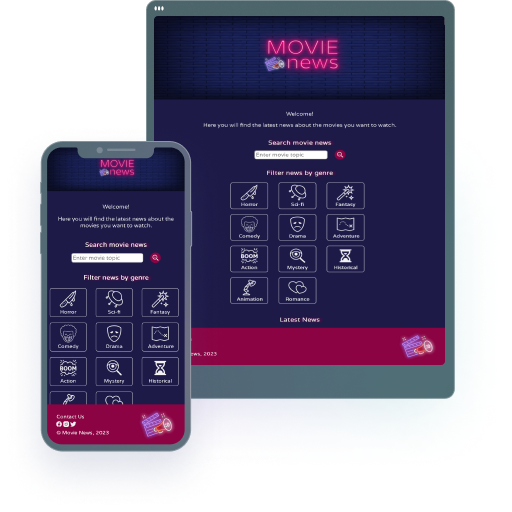
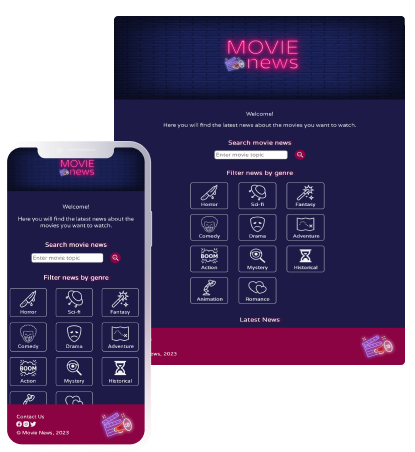
projects section img fixed and responsiveness

diff --git a/index.html b/index.html
@@ -85,7 +85,7 @@
     <div class="body-container">
 
         <!-- About me section -->
-        <div id="about" class="grid grid-cols-1 lg:grid-cols-2 gap-10 px-6 py-10 md:px-16 md:py-20 text-white">
+        <div id="about" class="grid grid-cols-1 lg:grid-cols-2 gap-10 px-6 py-10 md:pb-20 md:px-16 mb-10 text-white">
             <div class="w-full lg:order-2">
                 <h2 class="text-2xl sm:text-3xl md:text-4xl lg:text-4xl xl:text-5xl font-bold mb-4 md:mb-12">About Me
                 </h2>
@@ -122,8 +122,7 @@
                             <i class="fa fa-chevron-down"></i>
                         </div>
                         <div id="accordion-3" class="accordion-body hidden p-4 rounded-b">
-                            <p>Since then, I found a new passion: coding. I enjoy the challenge and transforming ideas
-                                into tangible digital creations.</p>
+                            <p>Since then, I found a new passion: coding. I enjoy the challenge and transforming ideas into user-friendly digital creations.</p>
                         </div>
                     </div>
                     <div class="accordion-item border-b border-white">
@@ -162,7 +161,7 @@
 
     </div>
 
-    <div id="experience" class="container mx-auto px-6 md:px-8">
+    <div id="experience" class="container mx-auto px-6 md:px-8 py-10 md:pb-20">
         <div class="grid lg:grid-cols-2 gap-12">
             <!-- Experience Section -->
             <div class="space-y-6">
@@ -268,6 +267,7 @@
                             <span class="tags">Communication</span>
                             <span class="tags">Problem Solving</span>
                             <span class="tags">Adaptability</span>
+                            <span class="tags">Collaboration</span>
                         </div>
                     </div>
                     <div class="mt-8 flex space-x-4">
@@ -286,19 +286,19 @@
         <div class="space-y-8">
             <!-- Project SIWH -->
             <div class="rounded-lg overflow-hidden">
-                <div class="flex flex-col md:flex-row">
-                    <div class="md:w-1/2 p-6 project-mock">
-                        <img src="./assets/images/project-siwh.png" alt="South Island Wildlife Hospital"
-                            class="max-h-96">
+                <div class="flex flex-col lg:flex-row mx-auto">
+                    <div class="lg:w-1/2 project-mock flex items-center">
+                            <img src="./assets/images/project-siwh.png" alt="South Island Wildlife Hospital"
+                                class="">
                     </div>
-                    <div class="md:w-1/2 p-6 project-details">
+                    <div class="lg:w-1/2 p-6 project-details">
                         <h3 class="text-2xl font-bold mb-4">South Island Wildlife Hospital</h3>
                         <p class="mb-4">I redesigned the South Island Wildlife Hospital's website, conducting UX
                             research, documentation, and development to create an intuitive donation system. The goal
                             was to increase donor engagement, raise funds for vital resources, and raise awareness of
                             environmental factors affecting native wildlife care. Additionally, I handled the CMS and
                             e-commerce integration.</p>
-                        <div class="flex space-x-2 mb-4">
+                        <div class="flex space-x-2 mb-4 gap-2 flex-wrap	">
                             <span class="tags">Wordpress</span>
                             <span class="tags">Woocommerce</span>
                             <span class="tags">Javascript</span>
@@ -307,14 +307,14 @@
                         </div>
                         <div class="flex space-x-4">
                             <a href="./assets/documentation/Wildlife-compressed.pdf" target="_blank">
-                                <div class="w-36 h-36 rounded-lg example-card">
-                                    <i class="fas fa-file-alt text-3xl"></i>
+                                <div class="rounded-lg example-card">
+                                    <i class="fas fa-file-alt text-3xl mb-2"></i>
                                     <p>UX Documentation</p>
                                 </div>
                             </a>
                             <a href="https://wildlifehospital.co.nz/" target="_blank">
-                                <div class="w-36 h-36 rounded-lg example-card">
-                                    <i class="fas fa-laptop text-3xl"></i>
+                                <div class="rounded-lg example-card">
+                                    <i class="fas fa-laptop text-3xl mb-2"></i>
                                     <p>Website</p>
                                 </div>
                             </a>
@@ -324,46 +324,65 @@
             </div>
             <!-- Project MovieNews -->
             <div class="rounded-lg overflow-hidden">
-                <div class="flex flex-col md:flex-row-reverse">
-                    <div class="md:w-1/2 p-6 project-mock">
+                <div class="flex flex-col lg:flex-row-reverse mx-auto">
+                    <div class="lg:w-1/2 p-6 project-mock">
                         <img src="./assets/images/project-movienews.png" alt="Movie News" class="max-h-96">
                     </div>
-                    <div class="md:w-1/2 p-6 project-details">
+                    <div class="lg:w-1/2 p-6 project-details">
                         <h3 class="text-2xl font-bold mb-4">Movie News</h3>
-                        <p class="mb-4">Lorem ipsum dolor sit amet, consectetur adipiscing elit. Maecenas nec urna ac
-                            tellus egestas viverra. Vestibulum ante ipsum primis in faucibus orci luctus et ultrices
-                            posuere cubilia curae.</p>
+                        <p class="mb-4">I developed a single-page news application using a JavaScript framework and integrated it with the News API. Users can browse, search by term, and filter articles by category. I designed and coded the entire project, ensuring a smooth and intuitive user experience.</p>
                         <div class="flex flex-wrap gap-2 mb-4">
                             <span class="tags">Vue.js</span>
-                            <span class="tags">React</span>
                             <span class="tags">CSS</span>
-                            <span class="tags">Figma</span>
+                            <span class="tags">API</span>
                             <span class="tags">Illustrator</span>
-                            <span class="tags">Cypress</span>
-                            <span class="tags">Storybook</span>
-                            <span class="tags">GitHub</span>
+                            <span class="tags">Figma</span>
                         </div>
-                        <!-- <div class="flex space-x-4">
-                            <a href="#"
-                                class="flex items-center justify-center w-12 h-12 bg-cyan-400 rounded-lg text-teal-900">
-                                <i class="fas fa-laptop text-xl"></i>
-                            </a>
-                            <a href="#"
-                                class="flex items-center justify-center w-12 h-12 bg-cyan-400 rounded-lg text-teal-900">
-                                <i class="fab fa-github text-xl"></i>
-                            </a>
-                        </div> -->
                         <div class="flex space-x-4">
-                            <a href="./assets/documentation/Wildlife-compressed.pdf" target="_blank">
-                                <div class="w-36 h-36 rounded-lg example-card">
-                                    <i class="fas fa-file-alt text-3xl"></i>
+                            <a href="https://www.loom.com/share/cfa747ad807048ee8da2754e82ea8597?sid=42567ec4-9b48-4eac-9143-3bfefb8e9f43" target="_blank">
+                                <div class="rounded-lg example-card">
+                                    <i class="fas fa-laptop text-3xl mb-2"></i>
+                                    <p>Prototype</p>
+                                </div>
+
+                            </a>
+                            <a href="https://github.com/jureisgui/movie-news" target="_blank">
+                                <div class="rounded-lg example-card">
+                                    <i class="fab fa-github text-3xl mb-2"></i>
+                                    <p>GitHub</p>
+                                </div>
+                            </a>
+                        </div>
+                    </div>
+                </div>
+            </div>
+            <!-- Cera App -->
+            <div class="rounded-lg overflow-hidden">
+                <div class="flex flex-col lg:flex-row mx-auto">
+                    <div class="lg:w-1/2 p-6 project-mock">
+                        <img src="./assets/images/project-ceraapp.png" alt="South Island Wildlife Hospital"
+                            class="max-h-96">
+                    </div>
+                    <div class="lg:w-1/2 p-6 project-details">
+                        <h3 class="text-2xl font-bold mb-4">Cera App</h3>
+                        <p class="mb-4">I contributed to the development of Cera, an MVP application for pottery enthusiasts in New Zealand. I handled the database design using MongoDB, contributed to the coding and design, and conducted UX research and documentation. The project followed Agile methodology, with daily meetings and task tracking to ensure efficient progress.</p>
+                        <div class="flex space-x-2 mb-4 gap-2 flex-wrap	">
+                            <span class="tags">Sass</span>
+                            <span class="tags">Vue.js</span>
+                            <span class="tags">MongoDB</span>
+                            <span class="tags">Figma</span>
+                        </div>
+                        <div class="flex space-x-4">
+                            <a href="./assets/documentation/cera-app_compressed.pdf" target="_blank">
+                                <div class="rounded-lg example-card">
+                                    <i class="fas fa-file-alt text-3xl mb-2"></i>
                                     <p>UX Documentation</p>
                                 </div>
                             </a>
-                            <a href="https://wildlifehospital.co.nz/" target="_blank">
-                                <div class="w-36 h-36 rounded-lg example-card">
-                                    <i class="fab fa-github text-3xl"></i>
-                                    <p>GitHub</p>
+                            <a href="https://www.loom.com/share/63701403050844528656e6b954c2fc47?sid=e5ca6520-1294-4dce-b423-d5eea6dc15ed" target="_blank">
+                                <div class="rounded-lg example-card">
+                                    <i class="fas fa-laptop text-3xl mb-2"></i>
+                                    <p>Prototype</p>
                                 </div>
                             </a>
                         </div>

diff --git a/assets/style.css b/assets/style.css
@@ -150,6 +150,7 @@ header {
     font-family: 'Darker Grotesque', sans-serif;
     font-size: 20px;
     font-weight:600;
+    /* margin-bottom: 0.25rem; */
 }
 
 .button-one, .button-two {
@@ -182,15 +183,23 @@ header {
 /* PROJECTS */
 .project-mock{
     background-color: #71969D;
-    padding: 2em;
     display: flex;
-    flex-direction: column;
-    justify-content: center;
     align-items: center;
+    justify-content: center;
+    min-height: 300px;
+    overflow: hidden;
+    padding: 1em;;
+}
+
+.project-mock img {
+    max-width: 100%; 
+    max-height: 100%; 
+    object-fit: contain; 
 }
 
 .project-details{
     background-color: #007B95;
+    min-height: 300px;
 }
 
 .project-details h3{
@@ -203,13 +212,21 @@ header {
     flex-direction: column;
     align-items: center;
     justify-content: center;
-    padding: 2em;
+    padding: 0.5em;
     text-align: center;
     color: #00242C;
+    width: 10rem;
+    height: 8rem;
+    transition: transform 0.3s ease-in-out; 
 }
 
 .example-card p{
     color: #00242C !important;
     font-weight: 600;
+    line-height: 20px;
+}
+
+.example-card:hover {
+    transform: scale(1.05);
 }
 

diff --git a/assets/script.js b/assets/script.js
@@ -1,3 +1,4 @@
+// Burger menu
 document.addEventListener('DOMContentLoaded', function() {
     const burgerMenu = document.getElementById('burger-menu');
     const mobileMenu = document.getElementById('mobile-menu');
